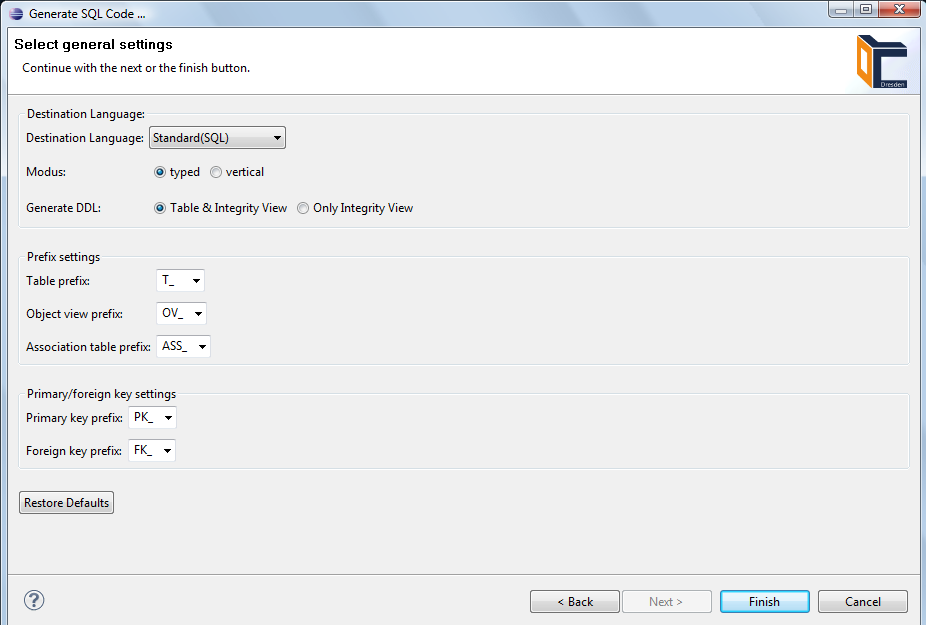
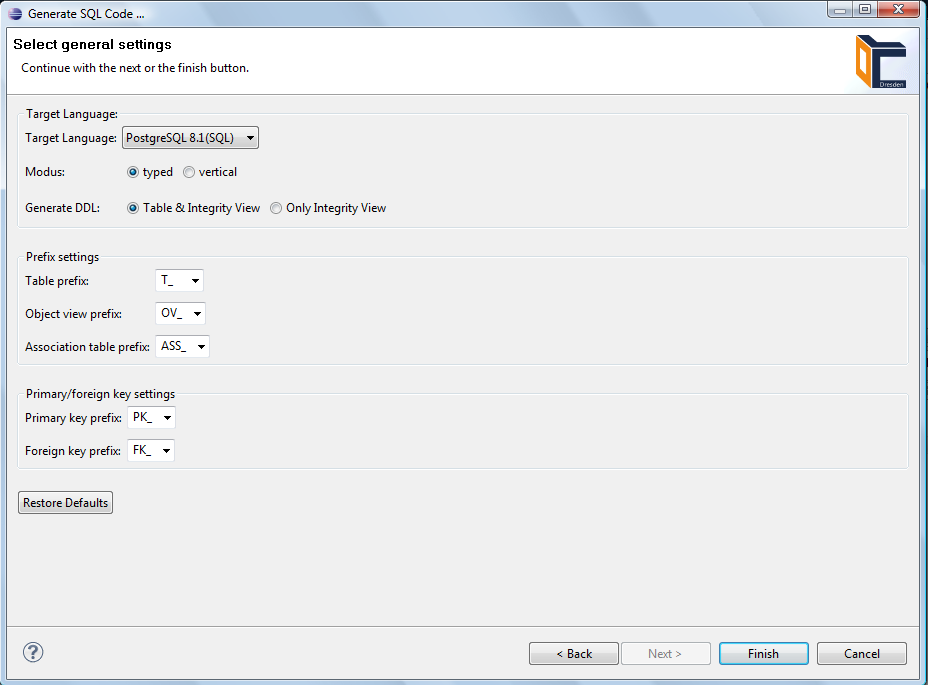
add changes for ocl2sql to manual

Changed region(s): [[0.0, 0.0, 1.0, 1.0]]

diff --git a/ocl20forEclipse/doc/tex/chapters/ocl2sql.tex b/ocl20forEclipse/doc/tex/chapters/ocl2sql.tex
@@ -6,36 +6,29 @@
 \end{flushright}
 
 This chapter describes how the SQL Code Generator \keyword{OCL2SQL} provided 
-with Dresden OCL can be used. A general introduction into Dresden OCL can 
-be found in Chapter~\ref{chapter:introduction}. 
+with Dresden OCL can be used. A general introduction into Dresden OCL cais provided in Chapter~\ref{chapter:introduction}. 
 
-Actual the SQL Code Generator is able to generate the following SQL dialects:
+The SQL Code Generator is able to generate the following code of SQL dialects (target languages):
 \begin{itemize}
-  \item Standard SQL
-  \item PostgreSQL
-  \item Oracle SQL
-  \item MySQL
+  \item Standard SQL 2008
+  \item PostgreSQL 9
+  \item Oracle SQL 11g
+  \item MySQL 5.1 und 5.5
 \end{itemize}
 
-
-
 \section{Code Generator Preparation}
-This chapter uses the \keyword{University Example} which is provided with 
-Dresden OCL. The example is show in Figure~\ref{pic:example:university01}. To
-import the university example into our Eclipse workspace we simply have to use
+In the following the \keyword{University Example} is used ( Figure~\ref{pic:example:university01}). To
+import the University Example into the Eclipse workspace we simply have to use
 the wizard \emph{File -> New -> Other\ldots -> Dresden OCL Examples ->
 University Example (UML)}. Afterwards, the project 
-\model{tudresden.ocl20.pivot.\linebreak[0]examp\-les.\linebreak[0]university})
-should exist within the workspace.
+\model{tudresden.ocl20.pivot.\linebreak[0]examp\-les.\linebreak[0]university}
+should be available within the workspace.
 
-The project 
-provides a model file which contains the university class diagram (the model file is located at 
-\model{model/university.uml}) and the constraint file we want to generate code for 
-(located at
-\model{con\-straints/\linebreak[0]uni\-ver\-si\-ty\linebreak[0].ocl}). One
-invariant is shown in Listing~\ref{lst:codegen:universityInvariant}. It is contained in the
-constraint file we want to generate code for. The invariant declares, that the
-\model{grade} of any \model{Person}'s superviser must be greater thant its own
+The project provides a model file which contains the university class model (
+\model{/model/university.uml}) and the constraint file we want to generate code for 
+(\model{/con\-straints/\linebreak[0]uni\-ver\-si\-ty\linebreak[0].ocl}). One
+invariant is shown in Listing~\ref{lst:codegen:universityInvariant}. The invariant specifies, that the
+\model{grade} of any \model{Person}'s supervisor must be greater than its own
 \model{grade}.
 
 \begin{figure}[!t]
@@ -53,10 +46,7 @@ constraint file we want to generate code for. The invariant declares, that the
 context Person
 inv tudOclInv1: self.supervisor.grade.value > self.grade.value
   \end{lstlisting}
-  
 \end{figure}
-
-
 
 \section{Code Generation}
 To prepare the code generation we have to import the model 
@@ -64,35 +54,34 @@ To prepare the code generation we have to import the model
 import wizard of Dresden OCL to import the model. This procedure is explained in
 Chapter~\ref{chapter:introduction}. Afterwards, we have to open the constraint
 file \model{con\-straints/\linebreak[0]university.ocl}. After the 
-importation, the \eclipse{Model Browser} should look like illustrated in 
+import the \eclipse{Model Browser} should look like illustrated in 
 Figure~\ref{pic:codegen:modelBrowserSQL}. Now we can start the code generation.
 By selecting the item \eclipse{Generate SQL Code} of the menu \eclipse{Dresden
-OCL} the sql code generation can be started.
+OCL} the SQL code generation can be started.
 
 \begin{figure}[!b]
 	\centering
 	\includegraphics[width=0.45\linewidth]{figures/codegen/modelBrowserSQL}
-	\caption{The Model Browser containing the University Model and its Constraints.}
+	\caption{The Model Browser showing the university model and its constraints.}
 	\label{pic:codegen:modelBrowserSQL}
 \end{figure}
 
 
 \subsection{Selecting a Model}
-A wizard opens and we have to select a model for code generation (cf. 
+At first a wizard is opened and we have to select a model for code generation (cf. 
 Fig.~\ref{pic:codegen:codegen01SQL}). We select the \model{university.uml} model
 and click the \eclipse{Next} button.
 
 \begin{figure}[!p]
 	\centering
 	\includegraphics[width=1.0\linewidth]{figures/codegen/codegen01SQL}
-	\caption{The first Step: Selecting a Model for Code Generation.}
+	\caption{The first step: Selecting a model for code generation.}
 	\label{pic:codegen:codegen01SQL}
 
 	\vspace{2.0em}
-	
 	\centering
 	\includegraphics[width=1.0\linewidth]{figures/codegen/codegen02SQL}
-	\caption{The second Step: Selecting Constraints for Code Generation.}
+	\caption{The second step: Selecting constraints for code generation.}
 	\label{pic:codegen:codegen02SQL}
 \end{figure}
 
@@ -106,49 +95,48 @@ generate code for. We only select the constraints \model{inv: oclInv1} and
 \begin{figure}[!p]
 	\centering
 	\includegraphics[width=1.0\linewidth]{figures/codegen/codegen03SQL}
-	\caption{The third Step: Selecting a target directory for the Generated Code.}
+	\caption{The third Step: Selecting a target directory for the generated code.}
 	\label{pic:codegen:codegen03SQL}
 
 	\vspace{2.0em}
 	
 	\centering
 	\includegraphics[width=1.0\linewidth]{figures/codegen/codegen04SQL}
-	\caption{The fourth Step: General Settings for the Code Generation.}
+	\caption{The fourth Step: General Settings for the code generation.}
 	\label{pic:codegen:codegen04SQL}
 \end{figure}
 
 
 \subsection{Selecting a target directory}
-Now, we have to choice the directory where the generated code will be stored.
+Now, we have to choose the directory where the generated code will be saved.
 We select the folder \model{sql} in this project (which is 
 \model{tudresden.\linebreak[0]ocl20.pivot.examples.university/\linebreak[0]sql})
-(cf. Fig.~\ref{pic:codegen:codegen03SQL}). We can click the \eclipse{Next}
+(cf. Fig.~\ref{pic:codegen:codegen03SQL}). Then we click the \eclipse{Next}
 button.
 
-On the following page of the wizard we can specify general settings for the code
-generation (cf. Fig.~\ref{pic:codegen:codegen04SQL}). We can choice a SQL
-dialect for the generated code. The modus of SQL generation decides how
-inheritance relationships are described in the SQL schema. In the typed
-modus all subclass properties will be written to the table of the super class.
-Any class has its own table with the own properties in the vertical modus. If
-you wish only to generate the code for invariant you must choice \emph{Only
-Integrity View} otherwiese the table schema will be generated as well. The other
-parameter will set the prefix for the different parts of the SQL schema. We can
+\subsection{General Settings}
+On the following page of the wizard we specify general settings for the code
+generation (cf. Fig.~\ref{pic:codegen:codegen04SQL}). We can choose a SQL
+dialect for the generated code.
+The modus of SQL generation decides how inheritance relationships are described 
+in the SQL schema.  In the \model{typed modus} all classes of an inheritance tree will be mapped in one big table. With a extra column for different the classes of the inheritance tree.
+In the other modus, \model{vertical modus}, any class have a mapped table.\\
+If you wish only to generate the code for invariant you must choice \emph{Only
+Integrity View} otherwiese the table schema will be generated as well.\\
+ The other parameters for the generation will set the prefix for the different parts(table,association table, view, primary key, foreign key) of the SQL schema. We can
 finish the settings and start the code generation with the \eclipse{Finish} button.
-
-
 
 \section{The Generated Code}
 After finishing the wizard, the code for the selected constraints will be 
 generated. To investigate the results it can be necessary to refresh the
-project (F5). Our project contains two new SQL files in the folder \texttt{sql}
+project (F5). Our example project contains two new SQL files in the folder \texttt{sql}
 (cf. Fig.~\ref{pic:codegen:projectExplorerSQL}). The file 
-\texttt{2010-09-29-09-34\_schema.sql} has the table and view schema of the
+\texttt{2010-09-29-09-34\_schema.sql} contains the table and view schema of the
 model. Every class of the model has its own view. Over this view the
 data(object) of the class can be accesssed. The other file
 \texttt{2010-09-29-09-34\_view.sql} has the views for the invariants (cf.
-Fig.~\ref{pic:codegen:generateSQL}). The views contain all objects that
-violtate the specific invariant (cf. Listing~\ref{lst:codegen:sqlInvariant}).
+Fig.~\ref{pic:codegen:generateSQL}). A call of the generated views contain all objects that
+violate the specific invariant.(cf. Listing~\ref{lst:codegen:sqlInvariant}).
 
 \begin{figure}[!p]
 	\centering
@@ -181,8 +169,7 @@ WHERE NOT (((SELECT value FROM OV_Grade
 \end{figure}
 
 \section{Summary}
-  
-How to generate SQL code using the 
+A generate SQL code using the 
 \keyword{OCL2SQL} code generator of Dresden OCL was described in this chapter.
 Besides the use of \keyword{OCL2SQL} via Dresden OCL's GUI, you can also invoke
 OCL2SQL via Dresden OCL's \acs{API}. The easiest way to connect to Dresden OCL
